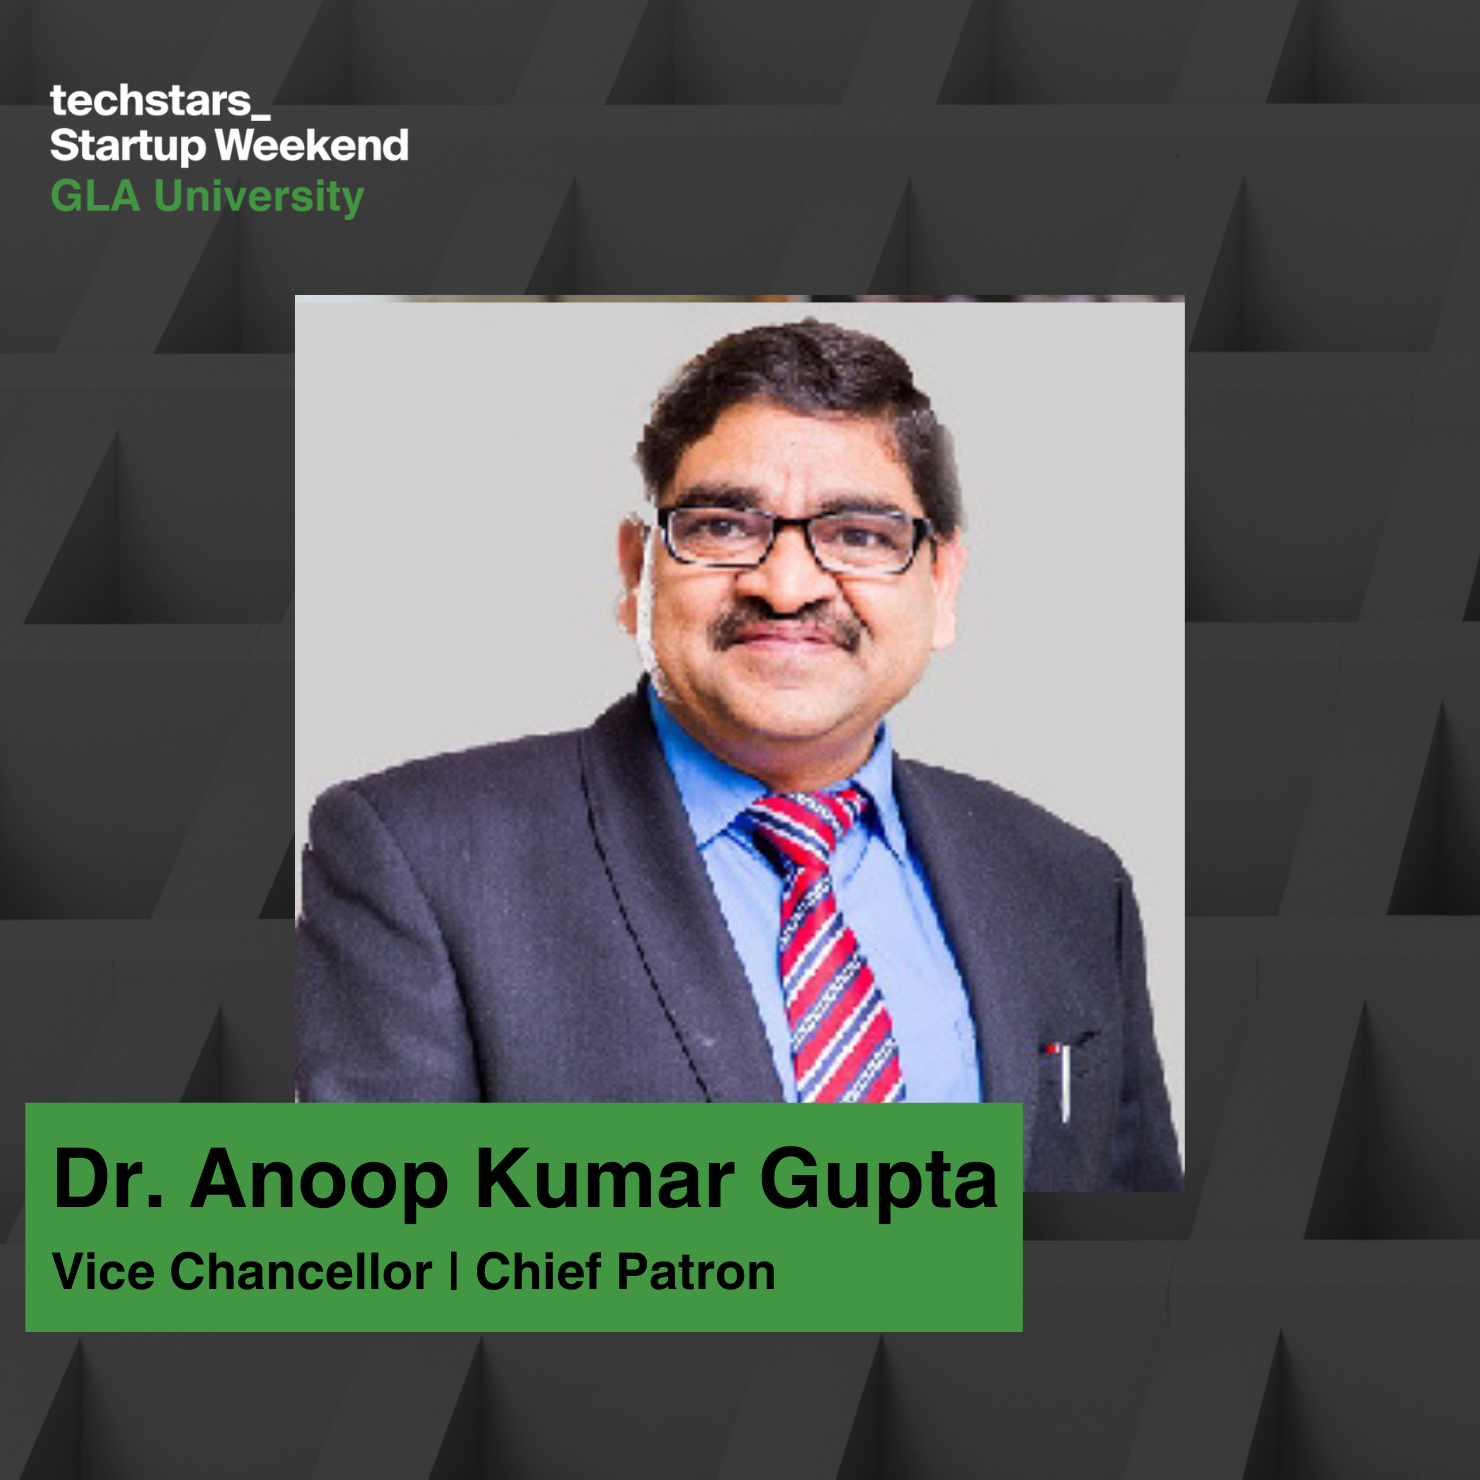
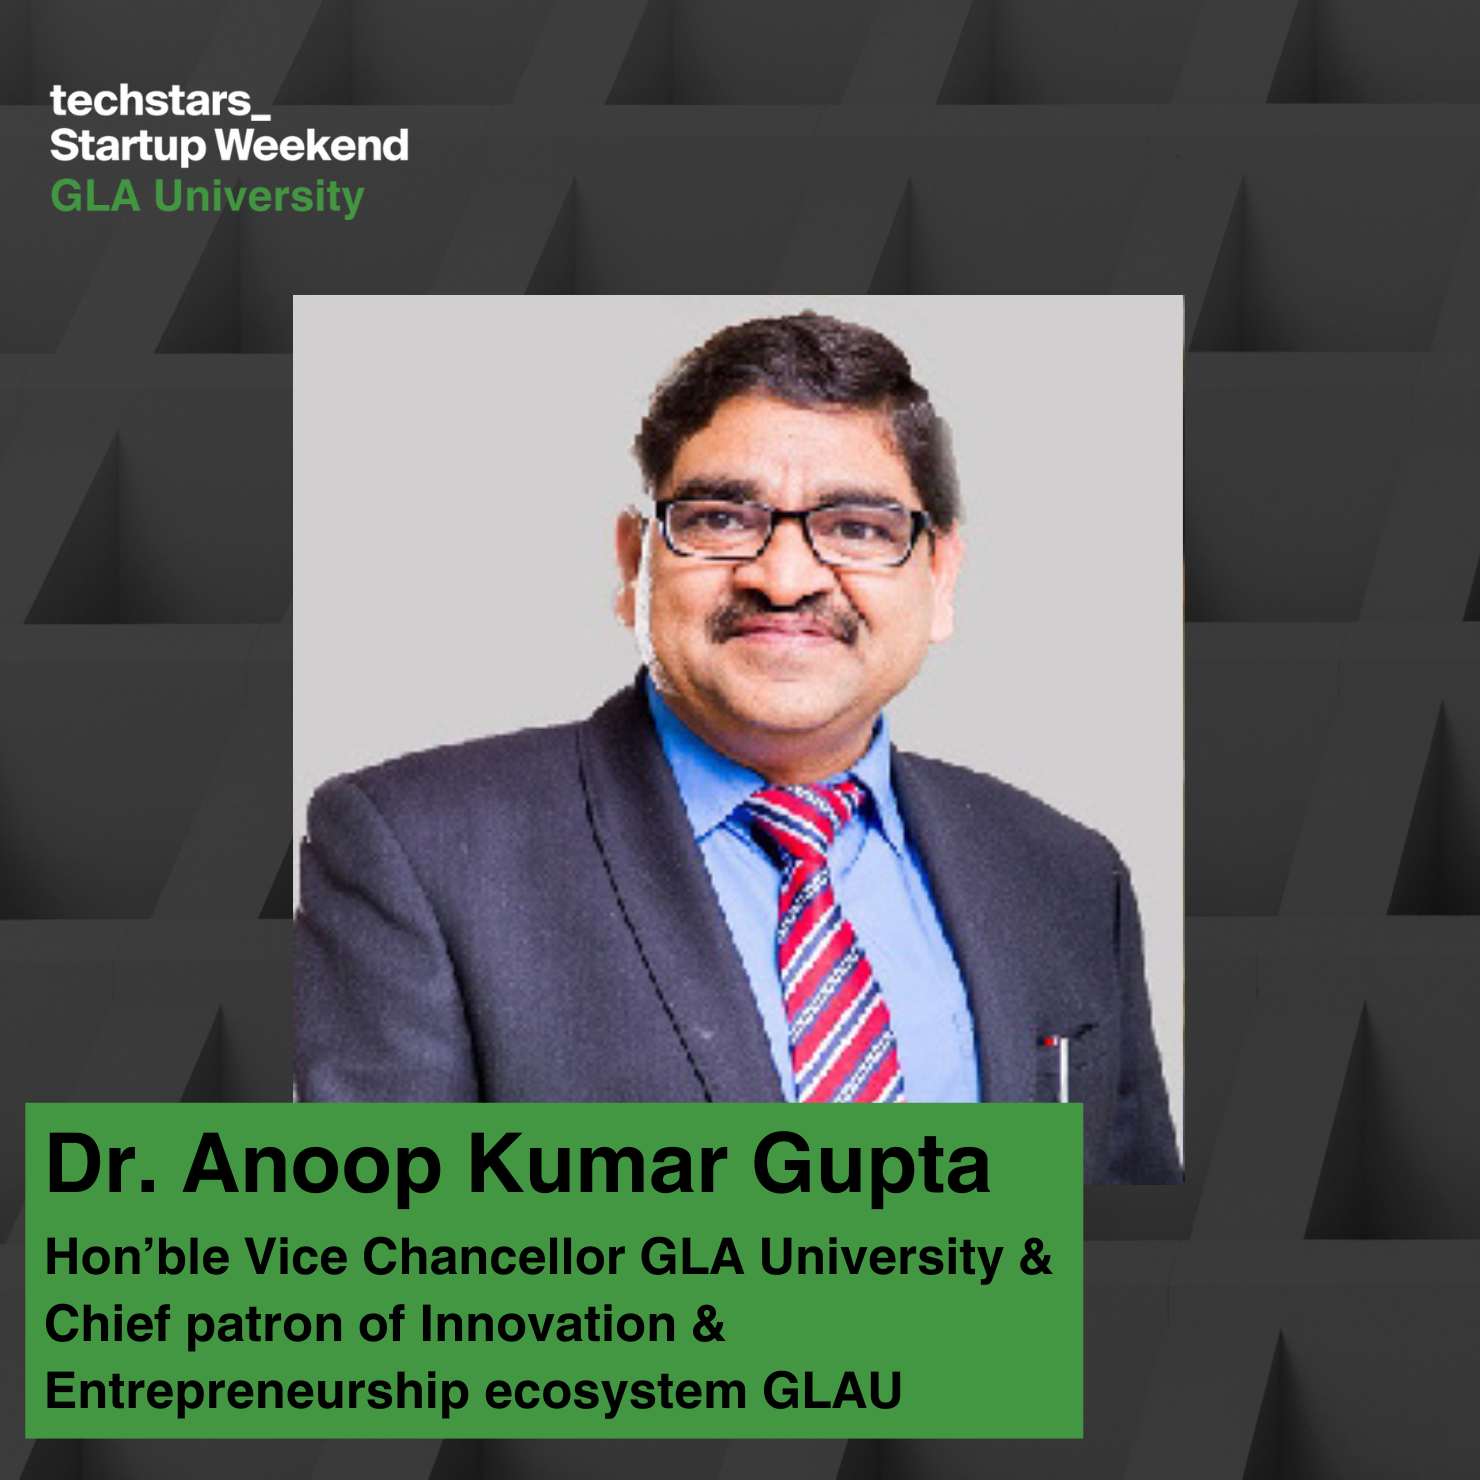
updated Visionory page

diff --git a/components/sections/home1/section5.tsx b/components/sections/home1/section5.tsx
@@ -80,26 +80,26 @@ export default function Section4() {
 									<div className="text-area">
 										<Link href="/speakers">Dr. Anoop Kumar Gupta </Link>
 										<div className="space16" />
-										<p>Vice Chancellor | Chief Patron</p>
+										<p>Hon’ble Vice Chancellor | Chief Patron</p>
 									</div>
 								</SwiperSlide>
 								<SwiperSlide className="team-widget-boxarea">
 									<div className="img1 image-anime">
-										<img src="/assets/img/all-images/team/PJ.png" alt="" />
-										<ul>											
+										<img src="/assets/img/all-images/team/VA.png" alt="" />
+										<ul>
 											<li>
-												<Link href="https://www.linkedin.com/in/dr-pramod-joshi-3774253/"><i className="fa-brands fa-linkedin-in" /></Link>
+												<Link href="https://www.linkedin.com/in/anoop-gupta-61236717/"><i className="fa-brands fa-linkedin-in" /></Link>
 											</li>
 											<li>
-												<Link href="https://www.facebook.com/pramod.k.joshi.12"><i className="fa-brands fa-facebook-f" /></Link>
+												<Link href="https://www.linkedin.com/in/anoop-gupta-61236717/"><i className="fa-brands fa-facebook-f" /></Link>
 											</li>
 										</ul>
 									</div>
 									<div className="space20" />
 									<div className="text-area">
-										<Link href="/speakers">Dr. Pramod Joshi</Link>
+										<Link href="/speakers">Dr. Vivek Agrawal</Link>
 										<div className="space16" />
-										<p>External Mentor</p>
+										<p>Hon’ble CFO Dr.Vivek Aggarwal GLAU</p>
 									</div>
 								</SwiperSlide>
 								<SwiperSlide className="team-widget-boxarea">
@@ -154,6 +154,25 @@ export default function Section4() {
 										<Link href="/speakers">Jitendra Sharma</Link>
 										<div className="space16" />
 										<p>Mentor</p>
+									</div>
+								</SwiperSlide>
+								<SwiperSlide className="team-widget-boxarea">
+									<div className="img1 image-anime">
+										<img src="/assets/img/all-images/team/PJ.png" alt="" />
+										<ul>											
+											<li>
+												<Link href="https://www.linkedin.com/in/dr-pramod-joshi-3774253/"><i className="fa-brands fa-linkedin-in" /></Link>
+											</li>
+											<li>
+												<Link href="https://www.facebook.com/pramod.k.joshi.12"><i className="fa-brands fa-facebook-f" /></Link>
+											</li>
+										</ul>
+									</div>
+									<div className="space20" />
+									<div className="text-area">
+										<Link href="/speakers">Dr. Pramod Joshi</Link>
+										<div className="space16" />
+										<p>External Mentor</p>
 									</div>
 								</SwiperSlide>
 
